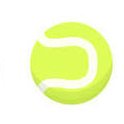
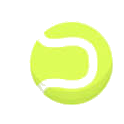
Cambio pelotas blancas por bowling, billar y badminton con color

diff --git a/backend/src/main/resources/static/assets/index-DQglgOp7.js b/backend/src/main/resources/static/assets/index-DQglgOp7.js
@@ -64,4 +64,4 @@ Error generating stack: `+i.message+`
  * LICENSE.md file in the root directory of this source tree.
  *
  * @license MIT
- */function oo(){return oo=Object.assign?Object.assign.bind():function(e){for(var t=1;t<arguments.length;t++){var n=arguments[t];for(var r in n)({}).hasOwnProperty.call(n,r)&&(e[r]=n[r])}return e},oo.apply(null,arguments)}function Nh(e,t){if(e==null)return{};var n={};for(var r in e)if({}.hasOwnProperty.call(e,r)){if(t.indexOf(r)!==-1)continue;n[r]=e[r]}return n}function Ph(e){return!!(e.metaKey||e.altKey||e.ctrlKey||e.shiftKey)}function _h(e,t){return e.button===0&&(!t||t==="_self")&&!Ph(e)}const jh=["onClick","relative","reloadDocument","replace","state","target","to","preventScrollReset","viewTransition"],zh="6";try{window.__reactRouterVersion=zh}catch{}const Rh="startTransition",Ss=kf[Rh];function Th(e){let{basename:t,children:n,future:r,window:l}=e,i=S.useRef();i.current==null&&(i.current=Ip({window:l,v5Compat:!0}));let o=i.current,[u,s]=S.useState({action:o.action,location:o.location}),{v7_startTransition:a}=r||{},h=S.useCallback(p=>{a&&Ss?Ss(()=>s(p)):s(p)},[s,a]);return S.useLayoutEffect(()=>o.listen(h),[o,h]),S.useEffect(()=>Sh(r),[r]),S.createElement(Eh,{basename:t,children:n,location:u.location,navigationType:u.action,navigator:o,future:r})}const Lh=typeof window<"u"&&typeof window.document<"u"&&typeof window.document.createElement<"u",Oh=/^(?:[a-z][a-z0-9+.-]*:|\/\/)/i,qc=S.forwardRef(function(t,n){let{onClick:r,relative:l,reloadDocument:i,replace:o,state:u,target:s,to:a,preventScrollReset:h,viewTransition:p}=t,m=Nh(t,jh),{basename:y}=S.useContext(Et),w,x=!1;if(typeof a=="string"&&Oh.test(a)&&(w=a,Lh))try{let f=new URL(window.location.href),g=a.startsWith("//")?new URL(f.protocol+a):new URL(a),E=nu(g.pathname,y);g.origin===f.origin&&E!=null?a=E+g.search+g.hash:x=!0}catch{}let C=oh(a,{relative:l}),d=Ih(a,{replace:o,state:u,target:s,preventScrollReset:h,relative:l,viewTransition:p});function c(f){r&&r(f),f.defaultPrevented||d(f)}return S.createElement("a",oo({},m,{href:w||C,onClick:x||i?r:c,ref:n,target:s}))});var ks;(function(e){e.UseScrollRestoration="useScrollRestoration",e.UseSubmit="useSubmit",e.UseSubmitFetcher="useSubmitFetcher",e.UseFetcher="useFetcher",e.useViewTransitionState="useViewTransitionState"})(ks||(ks={}));var Es;(function(e){e.UseFetcher="useFetcher",e.UseFetchers="useFetchers",e.UseScrollRestoration="useScrollRestoration"})(Es||(Es={}));function Ih(e,t){let{target:n,replace:r,state:l,preventScrollReset:i,relative:o,viewTransition:u}=t===void 0?{}:t,s=At(),a=pr(),h=Jc(e,{relative:o});return S.useCallback(p=>{if(_h(p,n)){p.preventDefault();let m=r!==void 0?r:ml(a)===ml(h);s(e,{replace:m,state:l,preventScrollReset:i,relative:o,viewTransition:u})}},[a,s,h,r,l,n,e,i,o,u])}const Mh="/api";function Dh(){return localStorage.getItem("token")}function bc(e){localStorage.setItem("token",e)}function ef(){localStorage.removeItem("token")}function xn(){const e=localStorage.getItem("usuario");return e?JSON.parse(e):null}function tf(e){localStorage.setItem("usuario",JSON.stringify(e))}async function We(e,t={}){const n=Dh(),r={"Content-Type":"application/json"};n&&(r.Authorization=`Bearer ${n}`);const l=await fetch(Mh+e,{...t,headers:r});if(l.status===401){ef(),window.location.href="/login";return}return l.json()}function Fh(e,t){return We("/auth/login",{method:"POST",body:JSON.stringify({email:e,password:t})})}function Uh(e,t,n,r){return We("/auth/register",{method:"POST",body:JSON.stringify({nombre:e,email:t,password:n,rol:r})})}function Cs(){return We("/equipos")}function $h(e){return We("/equipos",{method:"POST",body:JSON.stringify({nombre:e})})}function Ns(e){return We("/equipos/"+e)}function Ah(e,t){return We("/equipos/"+e+"/jugadores",{method:"POST",body:JSON.stringify({email:t})})}function Ps(e){return We("/equipos/"+e+"/convocatorias")}function Bh(e,t){return We("/equipos/"+e+"/convocatorias",{method:"POST",body:JSON.stringify(t)})}function _s(e){return We("/convocatorias/"+e+"/asistencia")}function Wh(e,t){return We("/convocatorias/"+e+"/asistencia",{method:"PUT",body:JSON.stringify({estado:t})})}function Vh(){const e=At(),t=xn();function n(){ef(),localStorage.removeItem("usuario"),e("/login")}return v.jsxs("nav",{className:"navbar",children:[v.jsx("h1",{style:{cursor:"pointer"},onClick:()=>e("/"),children:"ClubPlan"}),v.jsxs("div",{className:"navbar-right",children:[v.jsxs("span",{className:"navbar-user",children:[v.jsx("strong",{children:t==null?void 0:t.nombre})," · ",(t==null?void 0:t.rol)==="ENTRENADOR"?"Entrenador":"Jugador"]}),v.jsx("button",{onClick:n,children:"Cerrar sesion"})]})]})}const Hh=["/balls/soccer.png","/balls/basketball.png","/balls/baseball.png","/balls/tennis.png","/balls/volleyball.png","/balls/football.png","/balls/hockey.png"],ai=[{size:120,speed:2.5,rot:1.2},{size:140,speed:3,rot:-1},{size:110,speed:2.8,rot:1.4},{size:100,speed:3.5,rot:-1.6},{size:130,speed:2.2,rot:.9},{size:105,speed:3.2,rot:-1.3},{size:95,speed:3.8,rot:1.5}];function Qh(){const[e,t]=S.useState(""),[n,r]=S.useState(""),[l,i]=S.useState(""),o=At(),u=S.useRef(null),s=S.useRef(null),a=S.useRef([]),h=S.useRef([]);function p(y,w){const x=y.getBoundingClientRect(),C=w.getBoundingClientRect();return{left:C.left-x.left-30,top:C.top-x.top-30,right:C.right-x.left+30,bottom:C.bottom-x.top+30}}S.useLayoutEffect(()=>{const y=u.current,w=s.current;if(!y||!w)return;const x=y.clientWidth,C=y.clientHeight,d=p(y,w);h.current=ai.map((g,E)=>{let _,j,z=0;do _=Math.random()*(x-g.size),j=Math.random()*(C-g.size),z++;while(z<100&&_+g.size>d.left&&_<d.right&&j+g.size>d.top&&j<d.bottom);const N=Math.PI*2/ai.length*E+Math.random()*.5;return{x:_,y:j,dx:Math.cos(N)*g.speed,dy:Math.sin(N)*g.speed,r:Math.random()*360,dr:g.rot,size:g.size}}),h.current.forEach((g,E)=>{a.current[E]&&(a.current[E].style.transform="translate("+g.x+"px,"+g.y+"px) rotate("+g.r+"deg)")});let c;function f(){const g=u.current,E=s.current;if(!g||!E)return;const _=g.clientWidth,j=g.clientHeight,z=p(g,E);h.current.forEach((N,L)=>{let Q=N.x+N.dx,se=N.y+N.dy;if(N.r+=N.dr,Q<=0&&(Q=0,N.dx=Math.abs(N.dx)),Q>=_-N.size&&(Q=_-N.size,N.dx=-Math.abs(N.dx)),se<=0&&(se=0,N.dy=Math.abs(N.dy)),se>=j-N.size&&(se=j-N.size,N.dy=-Math.abs(N.dy)),Q+N.size>z.left&&Q<z.right&&se+N.size>z.top&&se<z.bottom){const et=N.x+N.size>z.left&&N.x<z.right,Sn=N.y+N.size>z.top&&N.y<z.bottom;et||(N.dx=-N.dx,Q=N.x+N.dx),Sn||(N.dy=-N.dy,se=N.y+N.dy),et&&Sn&&(N.dx=-N.dx,N.dy=-N.dy,Q=N.x+N.dx,se=N.y+N.dy)}N.x=Q,N.y=se,a.current[L]&&(a.current[L].style.transform="translate("+N.x+"px,"+N.y+"px) rotate("+N.r+"deg)")}),c=requestAnimationFrame(f)}return c=requestAnimationFrame(f),()=>cancelAnimationFrame(c)},[]);async function m(y){y.preventDefault();const w=await Fh(e,n);w.error?i(w.error):(bc(w.token),tf(w.usuario),o("/"))}return v.jsxs("div",{className:"login-bg",ref:u,children:[ai.map((y,w)=>v.jsx("div",{ref:x=>a.current[w]=x,className:"bouncing-icon",children:v.jsx("img",{src:Hh[w],alt:"",width:y.size,height:y.size,draggable:"false"})},w)),v.jsxs("div",{className:"login-card",ref:s,children:[v.jsx("div",{className:"login-logo",children:"ClubPlan"}),v.jsx("h2",{children:"Iniciar sesion"}),v.jsx("p",{className:"login-subtitle",children:"Gestiona tus equipos y convocatorias"}),l&&v.jsx("p",{className:"error",children:l}),v.jsxs("form",{onSubmit:m,children:[v.jsxs("div",{className:"form-group",children:[v.jsx("label",{children:"Email"}),v.jsx("input",{type:"email",value:e,onChange:y=>t(y.target.value),placeholder:"tu@email.com",required:!0})]}),v.jsxs("div",{className:"form-group",children:[v.jsx("label",{children:"Contrasena"}),v.jsx("input",{type:"password",value:n,onChange:y=>r(y.target.value),placeholder:"Tu contrasena",required:!0})]}),v.jsx("button",{type:"submit",className:"btn btn-primary",style:{width:"100%",padding:"14px"},children:"Entrar"})]}),v.jsxs("p",{style:{marginTop:"20px",textAlign:"center",fontSize:"0.9rem",color:"var(--texto-suave)"},children:["No tienes cuenta? ",v.jsx(qc,{to:"/register",style:{color:"var(--primary)",fontWeight:"600",textDecoration:"none"},children:"Registrate"})]})]})]})}function Kh(){const[e,t]=S.useState(""),[n,r]=S.useState(""),[l,i]=S.useState(""),[o,u]=S.useState("JUGADOR"),[s,a]=S.useState(""),h=At();async function p(m){m.preventDefault();const y=await Uh(e,n,l,o);y.error?a(y.error):(bc(y.token),tf(y.usuario),h("/"))}return v.jsx("div",{className:"login-bg",children:v.jsxs("div",{className:"login-card",children:[v.jsx("div",{className:"login-logo",children:"ClubPlan"}),v.jsx("h2",{children:"Crear cuenta"}),v.jsx("p",{className:"login-subtitle",children:"Unete a tu equipo"}),s&&v.jsx("p",{className:"error",children:s}),v.jsxs("form",{onSubmit:p,children:[v.jsxs("div",{className:"form-group",children:[v.jsx("label",{children:"Nombre"}),v.jsx("input",{value:e,onChange:m=>t(m.target.value),placeholder:"Tu nombre",required:!0})]}),v.jsxs("div",{className:"form-group",children:[v.jsx("label",{children:"Email"}),v.jsx("input",{type:"email",value:n,onChange:m=>r(m.target.value),placeholder:"tu@email.com",required:!0})]}),v.jsxs("div",{className:"form-group",children:[v.jsx("label",{children:"Contrasena"}),v.jsx("input",{type:"password",value:l,onChange:m=>i(m.target.value),placeholder:"Tu contrasena",required:!0})]}),v.jsxs("div",{className:"form-group",children:[v.jsx("label",{children:"Rol"}),v.jsxs("select",{value:o,onChange:m=>u(m.target.value),children:[v.jsx("option",{value:"ENTRENADOR",children:"Entrenador"}),v.jsx("option",{value:"JUGADOR",children:"Jugador"})]})]}),v.jsx("button",{type:"submit",className:"btn btn-primary",style:{width:"100%",padding:"14px"},children:"Registrarme"})]}),v.jsxs("p",{style:{marginTop:"20px",textAlign:"center",fontSize:"0.9rem",color:"var(--texto-suave)"},children:["Ya tienes cuenta? ",v.jsx(qc,{to:"/login",style:{color:"var(--primary)",fontWeight:"600",textDecoration:"none"},children:"Inicia sesion"})]})]})})}function Yh(){const[e,t]=S.useState([]),[n,r]=S.useState(""),[l,i]=S.useState(!1),o=At(),u=xn();S.useEffect(()=>{Cs().then(t)},[]);async function s(a){a.preventDefault(),await $h(n),r(""),i(!1),Cs().then(t)}return v.jsxs("div",{className:"container",children:[v.jsxs("div",{className:"flex-between",children:[v.jsxs("div",{className:"page-header",children:[v.jsx("h2",{children:"Mis equipos"}),v.jsxs("p",{children:[e.length," equipo",e.length!==1?"s":""]})]}),(u==null?void 0:u.rol)==="ENTRENADOR"&&v.jsx("button",{className:"btn btn-primary",onClick:()=>i(!l),children:l?"Cancelar":"+ Nuevo equipo"})]}),l&&v.jsxs("form",{onSubmit:s,className:"card",style:{display:"flex",gap:"12px",alignItems:"flex-end"},children:[v.jsxs("div",{style:{flex:1},children:[v.jsx("label",{style:{display:"block",marginBottom:"6px",fontWeight:"600",fontSize:"0.85rem"},children:"Nombre del equipo"}),v.jsx("input",{placeholder:"Ej: Juvenil A",value:n,onChange:a=>r(a.target.value),required:!0,style:{width:"100%",padding:"12px 14px",border:"2px solid var(--borde)",borderRadius:"10px",fontSize:"0.95rem",fontFamily:"inherit"}})]}),v.jsx("button",{type:"submit",className:"btn btn-primary",style:{height:"46px"},children:"Crear"})]}),v.jsx("div",{className:"grid",children:e.map(a=>{var h;return v.jsxs("div",{className:"card card-clickable",onClick:()=>o("/equipo/"+a.id),children:[v.jsx("div",{className:"card-icon card-icon-purple",children:"⚽"}),v.jsx("h3",{children:a.nombre}),v.jsxs("p",{children:["Entrenador: ",((h=a.entrenador)==null?void 0:h.nombre)||"Tu"]})]},a.id)})}),e.length===0&&v.jsxs("div",{className:"empty-state",children:[v.jsx("div",{className:"empty-icon",children:"⚽"}),v.jsx("p",{children:"No tienes equipos todavia"})]})]})}function Jh(){var C,d,c;const{id:e}=Yc(),t=At(),n=xn(),[r,l]=S.useState(null),[i,o]=S.useState([]),[u,s]=S.useState(""),[a,h]=S.useState({titulo:"",descripcion:"",fecha:"",lugar:""}),[p,m]=S.useState(!1);S.useEffect(()=>{Ns(e).then(l),Ps(e).then(o)},[e]);const y=((C=r==null?void 0:r.entrenador)==null?void 0:C.id)===(n==null?void 0:n.id);async function w(f){f.preventDefault(),await Ah(e,u),s(""),Ns(e).then(l)}async function x(f){f.preventDefault(),await Bh(e,a),h({titulo:"",descripcion:"",fecha:"",lugar:""}),m(!1),Ps(e).then(o)}return r?v.jsxs("div",{className:"container",children:[v.jsxs("div",{className:"page-header",children:[v.jsx("h2",{children:r.nombre}),v.jsxs("p",{children:["Entrenador: ",r.entrenador.nombre," — ",((d=r.jugadores)==null?void 0:d.length)||0," jugadores"]})]}),y&&v.jsxs("div",{className:"card",children:[v.jsx("h3",{style:{marginBottom:"16px"},children:"Jugadores del equipo"}),(c=r.jugadores)==null?void 0:c.map(f=>v.jsx("div",{className:"jugador-row",children:v.jsxs("div",{className:"jugador-info",children:[v.jsx("div",{className:"jugador-avatar",children:f.nombre.charAt(0).toUpperCase()}),v.jsxs("div",{children:[v.jsx("div",{style:{fontWeight:"600",fontSize:"0.95rem"},children:f.nombre}),v.jsx("div",{style:{color:"var(--texto-suave)",fontSize:"0.8rem"},children:f.email})]})]})},f.id)),(!r.jugadores||r.jugadores.length===0)&&v.jsx("p",{style:{color:"var(--texto-suave)",fontSize:"0.9rem",marginBottom:"12px"},children:"No hay jugadores todavia"}),v.jsxs("form",{onSubmit:w,style:{display:"flex",gap:"8px",marginTop:"16px"},children:[v.jsx("input",{type:"email",placeholder:"Email del jugador",value:u,onChange:f=>s(f.target.value),required:!0,style:{flex:1,padding:"10px 14px",border:"2px solid var(--borde)",borderRadius:"10px",fontSize:"0.9rem",fontFamily:"inherit"}}),v.jsx("button",{type:"submit",className:"btn btn-outline",children:"Anadir"})]})]}),v.jsxs("div",{className:"flex-between",style:{marginTop:"28px"},children:[v.jsx("h3",{style:{fontSize:"1.2rem",fontWeight:"700"},children:"Convocatorias"}),y&&v.jsx("button",{className:"btn btn-primary",onClick:()=>m(!p),children:p?"Cancelar":"+ Nueva convocatoria"})]}),p&&v.jsxs("form",{onSubmit:x,className:"card",children:[v.jsxs("div",{className:"form-group",children:[v.jsx("label",{children:"Titulo"}),v.jsx("input",{value:a.titulo,onChange:f=>h({...a,titulo:f.target.value}),placeholder:"Ej: Partido vs Alzira",required:!0})]}),v.jsxs("div",{className:"form-group",children:[v.jsx("label",{children:"Descripcion"}),v.jsx("textarea",{value:a.descripcion,onChange:f=>h({...a,descripcion:f.target.value}),rows:"3",placeholder:"Detalles de la convocatoria"})]}),v.jsxs("div",{style:{display:"grid",gridTemplateColumns:"1fr 1fr",gap:"12px"},children:[v.jsxs("div",{className:"form-group",children:[v.jsx("label",{children:"Fecha y hora"}),v.jsx("input",{type:"datetime-local",value:a.fecha,onChange:f=>h({...a,fecha:f.target.value}),required:!0})]}),v.jsxs("div",{className:"form-group",children:[v.jsx("label",{children:"Lugar"}),v.jsx("input",{value:a.lugar,onChange:f=>h({...a,lugar:f.target.value}),placeholder:"Ej: Campo Municipal"})]})]}),v.jsx("button",{type:"submit",className:"btn btn-primary",children:"Crear convocatoria"})]}),i.map(f=>v.jsx("div",{className:"card card-clickable",onClick:()=>t("/convocatoria/"+f.id),children:v.jsxs("div",{style:{display:"flex",justifyContent:"space-between",alignItems:"center"},children:[v.jsxs("div",{children:[v.jsx("h3",{children:f.titulo}),v.jsxs("p",{children:[f.lugar," — ",new Date(f.fecha).toLocaleString("es-ES")]})]}),v.jsx("span",{style:{color:"var(--primary)",fontSize:"1.2rem"},children:"›"})]})},f.id)),i.length===0&&v.jsxs("div",{className:"empty-state",children:[v.jsx("div",{className:"empty-icon",children:"📅"}),v.jsx("p",{children:"No hay convocatorias todavia"})]})]}):v.jsx("div",{className:"container",children:v.jsx("p",{children:"Cargando..."})})}function Xh(){const{id:e}=Yc(),t=xn(),[n,r]=S.useState([]);S.useEffect(()=>{_s(e).then(r)},[e]);async function l(a){await Wh(e,a),_s(e).then(r)}const i=n.find(a=>a.jugador.id===(t==null?void 0:t.id)),o=n.filter(a=>a.estado==="CONFIRMADO").length,u=n.filter(a=>a.estado==="RECHAZADO").length,s=n.filter(a=>a.estado==="PENDIENTE").length;return v.jsxs("div",{className:"container",children:[v.jsxs("div",{className:"page-header",children:[v.jsx("h2",{children:"Asistencia"}),v.jsxs("p",{children:[n.length," jugadores convocados"]})]}),v.jsxs("div",{className:"stat-cards",children:[v.jsxs("div",{className:"stat-card",children:[v.jsx("div",{className:"stat-number",style:{color:"var(--accent)"},children:o}),v.jsx("p",{children:"Confirmados"})]}),v.jsxs("div",{className:"stat-card",children:[v.jsx("div",{className:"stat-number",style:{color:"var(--rojo)"},children:u}),v.jsx("p",{children:"Rechazados"})]}),v.jsxs("div",{className:"stat-card",children:[v.jsx("div",{className:"stat-number",style:{color:"var(--amarillo)"},children:s}),v.jsx("p",{children:"Pendientes"})]})]}),i&&v.jsxs("div",{className:"card",children:[v.jsx("h3",{style:{marginBottom:"12px"},children:"Tu respuesta"}),v.jsxs("p",{style:{marginBottom:"16px"},children:["Estado actual: ",v.jsx("span",{className:"badge badge-"+i.estado.toLowerCase(),children:i.estado})]}),v.jsxs("div",{style:{display:"flex",gap:"10px"},children:[v.jsx("button",{className:"btn btn-accent",onClick:()=>l("CONFIRMADO"),children:"Confirmar asistencia"}),v.jsx("button",{className:"btn btn-danger",onClick:()=>l("RECHAZADO"),children:"No puedo ir"})]})]}),v.jsx("h3",{style:{marginTop:"28px",marginBottom:"16px",fontSize:"1.1rem",fontWeight:"700"},children:"Lista de jugadores"}),n.map(a=>v.jsx("div",{className:"card",style:{padding:"16px 24px"},children:v.jsxs("div",{className:"jugador-row",style:{borderBottom:"none",padding:0},children:[v.jsxs("div",{className:"jugador-info",children:[v.jsx("div",{className:"jugador-avatar",children:a.jugador.nombre.charAt(0).toUpperCase()}),v.jsx("span",{style:{fontWeight:"600"},children:a.jugador.nombre})]}),v.jsx("span",{className:"badge badge-"+a.estado.toLowerCase(),children:a.estado})]})},a.id))]})}function ci({children:e}){return xn()?e:v.jsx(kh,{to:"/login"})}function Gh(){return v.jsxs(v.Fragment,{children:[xn()&&v.jsx(Vh,{}),v.jsxs(Ch,{children:[v.jsx(Wt,{path:"/login",element:v.jsx(Qh,{})}),v.jsx(Wt,{path:"/register",element:v.jsx(Kh,{})}),v.jsx(Wt,{path:"/",element:v.jsx(ci,{children:v.jsx(Yh,{})})}),v.jsx(Wt,{path:"/equipo/:id",element:v.jsx(ci,{children:v.jsx(Jh,{})})}),v.jsx(Wt,{path:"/convocatoria/:id",element:v.jsx(ci,{children:v.jsx(Xh,{})})})]})]})}fi.createRoot(document.getElementById("root")).render(v.jsx(Th,{children:v.jsx(Gh,{})}));
+ */function oo(){return oo=Object.assign?Object.assign.bind():function(e){for(var t=1;t<arguments.length;t++){var n=arguments[t];for(var r in n)({}).hasOwnProperty.call(n,r)&&(e[r]=n[r])}return e},oo.apply(null,arguments)}function Nh(e,t){if(e==null)return{};var n={};for(var r in e)if({}.hasOwnProperty.call(e,r)){if(t.indexOf(r)!==-1)continue;n[r]=e[r]}return n}function Ph(e){return!!(e.metaKey||e.altKey||e.ctrlKey||e.shiftKey)}function _h(e,t){return e.button===0&&(!t||t==="_self")&&!Ph(e)}const jh=["onClick","relative","reloadDocument","replace","state","target","to","preventScrollReset","viewTransition"],zh="6";try{window.__reactRouterVersion=zh}catch{}const Rh="startTransition",Ss=kf[Rh];function Th(e){let{basename:t,children:n,future:r,window:l}=e,i=S.useRef();i.current==null&&(i.current=Ip({window:l,v5Compat:!0}));let o=i.current,[u,s]=S.useState({action:o.action,location:o.location}),{v7_startTransition:a}=r||{},h=S.useCallback(p=>{a&&Ss?Ss(()=>s(p)):s(p)},[s,a]);return S.useLayoutEffect(()=>o.listen(h),[o,h]),S.useEffect(()=>Sh(r),[r]),S.createElement(Eh,{basename:t,children:n,location:u.location,navigationType:u.action,navigator:o,future:r})}const Lh=typeof window<"u"&&typeof window.document<"u"&&typeof window.document.createElement<"u",Oh=/^(?:[a-z][a-z0-9+.-]*:|\/\/)/i,qc=S.forwardRef(function(t,n){let{onClick:r,relative:l,reloadDocument:i,replace:o,state:u,target:s,to:a,preventScrollReset:h,viewTransition:p}=t,m=Nh(t,jh),{basename:y}=S.useContext(Et),w,x=!1;if(typeof a=="string"&&Oh.test(a)&&(w=a,Lh))try{let f=new URL(window.location.href),g=a.startsWith("//")?new URL(f.protocol+a):new URL(a),E=nu(g.pathname,y);g.origin===f.origin&&E!=null?a=E+g.search+g.hash:x=!0}catch{}let C=oh(a,{relative:l}),d=Ih(a,{replace:o,state:u,target:s,preventScrollReset:h,relative:l,viewTransition:p});function c(f){r&&r(f),f.defaultPrevented||d(f)}return S.createElement("a",oo({},m,{href:w||C,onClick:x||i?r:c,ref:n,target:s}))});var ks;(function(e){e.UseScrollRestoration="useScrollRestoration",e.UseSubmit="useSubmit",e.UseSubmitFetcher="useSubmitFetcher",e.UseFetcher="useFetcher",e.useViewTransitionState="useViewTransitionState"})(ks||(ks={}));var Es;(function(e){e.UseFetcher="useFetcher",e.UseFetchers="useFetchers",e.UseScrollRestoration="useScrollRestoration"})(Es||(Es={}));function Ih(e,t){let{target:n,replace:r,state:l,preventScrollReset:i,relative:o,viewTransition:u}=t===void 0?{}:t,s=At(),a=pr(),h=Jc(e,{relative:o});return S.useCallback(p=>{if(_h(p,n)){p.preventDefault();let m=r!==void 0?r:ml(a)===ml(h);s(e,{replace:m,state:l,preventScrollReset:i,relative:o,viewTransition:u})}},[a,s,h,r,l,n,e,i,o,u])}const Mh="/api";function Dh(){return localStorage.getItem("token")}function bc(e){localStorage.setItem("token",e)}function ef(){localStorage.removeItem("token")}function xn(){const e=localStorage.getItem("usuario");return e?JSON.parse(e):null}function tf(e){localStorage.setItem("usuario",JSON.stringify(e))}async function We(e,t={}){const n=Dh(),r={"Content-Type":"application/json"};n&&(r.Authorization=`Bearer ${n}`);const l=await fetch(Mh+e,{...t,headers:r});if(l.status===401){ef(),window.location.href="/login";return}return l.json()}function Fh(e,t){return We("/auth/login",{method:"POST",body:JSON.stringify({email:e,password:t})})}function Uh(e,t,n,r){return We("/auth/register",{method:"POST",body:JSON.stringify({nombre:e,email:t,password:n,rol:r})})}function Cs(){return We("/equipos")}function $h(e){return We("/equipos",{method:"POST",body:JSON.stringify({nombre:e})})}function Ns(e){return We("/equipos/"+e)}function Ah(e,t){return We("/equipos/"+e+"/jugadores",{method:"POST",body:JSON.stringify({email:t})})}function Ps(e){return We("/equipos/"+e+"/convocatorias")}function Bh(e,t){return We("/equipos/"+e+"/convocatorias",{method:"POST",body:JSON.stringify(t)})}function _s(e){return We("/convocatorias/"+e+"/asistencia")}function Wh(e,t){return We("/convocatorias/"+e+"/asistencia",{method:"PUT",body:JSON.stringify({estado:t})})}function Vh(){const e=At(),t=xn();function n(){ef(),localStorage.removeItem("usuario"),e("/login")}return v.jsxs("nav",{className:"navbar",children:[v.jsx("h1",{style:{cursor:"pointer"},onClick:()=>e("/"),children:"ClubPlan"}),v.jsxs("div",{className:"navbar-right",children:[v.jsxs("span",{className:"navbar-user",children:[v.jsx("strong",{children:t==null?void 0:t.nombre})," · ",(t==null?void 0:t.rol)==="ENTRENADOR"?"Entrenador":"Jugador"]}),v.jsx("button",{onClick:n,children:"Cerrar sesion"})]})]})}const Hh=["/balls/bowling.png","/balls/basketball.png","/balls/billiard.png","/balls/tennis.png","/balls/badminton.png","/balls/football.png","/balls/hockey.png"],ai=[{size:120,speed:2.5,rot:1.2},{size:140,speed:3,rot:-1},{size:110,speed:2.8,rot:1.4},{size:100,speed:3.5,rot:-1.6},{size:130,speed:2.2,rot:.9},{size:105,speed:3.2,rot:-1.3},{size:95,speed:3.8,rot:1.5}];function Qh(){const[e,t]=S.useState(""),[n,r]=S.useState(""),[l,i]=S.useState(""),o=At(),u=S.useRef(null),s=S.useRef(null),a=S.useRef([]),h=S.useRef([]);function p(y,w){const x=y.getBoundingClientRect(),C=w.getBoundingClientRect();return{left:C.left-x.left-30,top:C.top-x.top-30,right:C.right-x.left+30,bottom:C.bottom-x.top+30}}S.useLayoutEffect(()=>{const y=u.current,w=s.current;if(!y||!w)return;const x=y.clientWidth,C=y.clientHeight,d=p(y,w);h.current=ai.map((g,E)=>{let _,j,z=0;do _=Math.random()*(x-g.size),j=Math.random()*(C-g.size),z++;while(z<100&&_+g.size>d.left&&_<d.right&&j+g.size>d.top&&j<d.bottom);const N=Math.PI*2/ai.length*E+Math.random()*.5;return{x:_,y:j,dx:Math.cos(N)*g.speed,dy:Math.sin(N)*g.speed,r:Math.random()*360,dr:g.rot,size:g.size}}),h.current.forEach((g,E)=>{a.current[E]&&(a.current[E].style.transform="translate("+g.x+"px,"+g.y+"px) rotate("+g.r+"deg)")});let c;function f(){const g=u.current,E=s.current;if(!g||!E)return;const _=g.clientWidth,j=g.clientHeight,z=p(g,E);h.current.forEach((N,L)=>{let Q=N.x+N.dx,se=N.y+N.dy;if(N.r+=N.dr,Q<=0&&(Q=0,N.dx=Math.abs(N.dx)),Q>=_-N.size&&(Q=_-N.size,N.dx=-Math.abs(N.dx)),se<=0&&(se=0,N.dy=Math.abs(N.dy)),se>=j-N.size&&(se=j-N.size,N.dy=-Math.abs(N.dy)),Q+N.size>z.left&&Q<z.right&&se+N.size>z.top&&se<z.bottom){const et=N.x+N.size>z.left&&N.x<z.right,Sn=N.y+N.size>z.top&&N.y<z.bottom;et||(N.dx=-N.dx,Q=N.x+N.dx),Sn||(N.dy=-N.dy,se=N.y+N.dy),et&&Sn&&(N.dx=-N.dx,N.dy=-N.dy,Q=N.x+N.dx,se=N.y+N.dy)}N.x=Q,N.y=se,a.current[L]&&(a.current[L].style.transform="translate("+N.x+"px,"+N.y+"px) rotate("+N.r+"deg)")}),c=requestAnimationFrame(f)}return c=requestAnimationFrame(f),()=>cancelAnimationFrame(c)},[]);async function m(y){y.preventDefault();const w=await Fh(e,n);w.error?i(w.error):(bc(w.token),tf(w.usuario),o("/"))}return v.jsxs("div",{className:"login-bg",ref:u,children:[ai.map((y,w)=>v.jsx("div",{ref:x=>a.current[w]=x,className:"bouncing-icon",children:v.jsx("img",{src:Hh[w],alt:"",width:y.size,height:y.size,draggable:"false"})},w)),v.jsxs("div",{className:"login-card",ref:s,children:[v.jsx("div",{className:"login-logo",children:"ClubPlan"}),v.jsx("h2",{children:"Iniciar sesion"}),v.jsx("p",{className:"login-subtitle",children:"Gestiona tus equipos y convocatorias"}),l&&v.jsx("p",{className:"error",children:l}),v.jsxs("form",{onSubmit:m,children:[v.jsxs("div",{className:"form-group",children:[v.jsx("label",{children:"Email"}),v.jsx("input",{type:"email",value:e,onChange:y=>t(y.target.value),placeholder:"tu@email.com",required:!0})]}),v.jsxs("div",{className:"form-group",children:[v.jsx("label",{children:"Contrasena"}),v.jsx("input",{type:"password",value:n,onChange:y=>r(y.target.value),placeholder:"Tu contrasena",required:!0})]}),v.jsx("button",{type:"submit",className:"btn btn-primary",style:{width:"100%",padding:"14px"},children:"Entrar"})]}),v.jsxs("p",{style:{marginTop:"20px",textAlign:"center",fontSize:"0.9rem",color:"var(--texto-suave)"},children:["No tienes cuenta? ",v.jsx(qc,{to:"/register",style:{color:"var(--primary)",fontWeight:"600",textDecoration:"none"},children:"Registrate"})]})]})]})}function Kh(){const[e,t]=S.useState(""),[n,r]=S.useState(""),[l,i]=S.useState(""),[o,u]=S.useState("JUGADOR"),[s,a]=S.useState(""),h=At();async function p(m){m.preventDefault();const y=await Uh(e,n,l,o);y.error?a(y.error):(bc(y.token),tf(y.usuario),h("/"))}return v.jsx("div",{className:"login-bg",children:v.jsxs("div",{className:"login-card",children:[v.jsx("div",{className:"login-logo",children:"ClubPlan"}),v.jsx("h2",{children:"Crear cuenta"}),v.jsx("p",{className:"login-subtitle",children:"Unete a tu equipo"}),s&&v.jsx("p",{className:"error",children:s}),v.jsxs("form",{onSubmit:p,children:[v.jsxs("div",{className:"form-group",children:[v.jsx("label",{children:"Nombre"}),v.jsx("input",{value:e,onChange:m=>t(m.target.value),placeholder:"Tu nombre",required:!0})]}),v.jsxs("div",{className:"form-group",children:[v.jsx("label",{children:"Email"}),v.jsx("input",{type:"email",value:n,onChange:m=>r(m.target.value),placeholder:"tu@email.com",required:!0})]}),v.jsxs("div",{className:"form-group",children:[v.jsx("label",{children:"Contrasena"}),v.jsx("input",{type:"password",value:l,onChange:m=>i(m.target.value),placeholder:"Tu contrasena",required:!0})]}),v.jsxs("div",{className:"form-group",children:[v.jsx("label",{children:"Rol"}),v.jsxs("select",{value:o,onChange:m=>u(m.target.value),children:[v.jsx("option",{value:"ENTRENADOR",children:"Entrenador"}),v.jsx("option",{value:"JUGADOR",children:"Jugador"})]})]}),v.jsx("button",{type:"submit",className:"btn btn-primary",style:{width:"100%",padding:"14px"},children:"Registrarme"})]}),v.jsxs("p",{style:{marginTop:"20px",textAlign:"center",fontSize:"0.9rem",color:"var(--texto-suave)"},children:["Ya tienes cuenta? ",v.jsx(qc,{to:"/login",style:{color:"var(--primary)",fontWeight:"600",textDecoration:"none"},children:"Inicia sesion"})]})]})})}function Yh(){const[e,t]=S.useState([]),[n,r]=S.useState(""),[l,i]=S.useState(!1),o=At(),u=xn();S.useEffect(()=>{Cs().then(t)},[]);async function s(a){a.preventDefault(),await $h(n),r(""),i(!1),Cs().then(t)}return v.jsxs("div",{className:"container",children:[v.jsxs("div",{className:"flex-between",children:[v.jsxs("div",{className:"page-header",children:[v.jsx("h2",{children:"Mis equipos"}),v.jsxs("p",{children:[e.length," equipo",e.length!==1?"s":""]})]}),(u==null?void 0:u.rol)==="ENTRENADOR"&&v.jsx("button",{className:"btn btn-primary",onClick:()=>i(!l),children:l?"Cancelar":"+ Nuevo equipo"})]}),l&&v.jsxs("form",{onSubmit:s,className:"card",style:{display:"flex",gap:"12px",alignItems:"flex-end"},children:[v.jsxs("div",{style:{flex:1},children:[v.jsx("label",{style:{display:"block",marginBottom:"6px",fontWeight:"600",fontSize:"0.85rem"},children:"Nombre del equipo"}),v.jsx("input",{placeholder:"Ej: Juvenil A",value:n,onChange:a=>r(a.target.value),required:!0,style:{width:"100%",padding:"12px 14px",border:"2px solid var(--borde)",borderRadius:"10px",fontSize:"0.95rem",fontFamily:"inherit"}})]}),v.jsx("button",{type:"submit",className:"btn btn-primary",style:{height:"46px"},children:"Crear"})]}),v.jsx("div",{className:"grid",children:e.map(a=>{var h;return v.jsxs("div",{className:"card card-clickable",onClick:()=>o("/equipo/"+a.id),children:[v.jsx("div",{className:"card-icon card-icon-purple",children:"⚽"}),v.jsx("h3",{children:a.nombre}),v.jsxs("p",{children:["Entrenador: ",((h=a.entrenador)==null?void 0:h.nombre)||"Tu"]})]},a.id)})}),e.length===0&&v.jsxs("div",{className:"empty-state",children:[v.jsx("div",{className:"empty-icon",children:"⚽"}),v.jsx("p",{children:"No tienes equipos todavia"})]})]})}function Jh(){var C,d,c;const{id:e}=Yc(),t=At(),n=xn(),[r,l]=S.useState(null),[i,o]=S.useState([]),[u,s]=S.useState(""),[a,h]=S.useState({titulo:"",descripcion:"",fecha:"",lugar:""}),[p,m]=S.useState(!1);S.useEffect(()=>{Ns(e).then(l),Ps(e).then(o)},[e]);const y=((C=r==null?void 0:r.entrenador)==null?void 0:C.id)===(n==null?void 0:n.id);async function w(f){f.preventDefault(),await Ah(e,u),s(""),Ns(e).then(l)}async function x(f){f.preventDefault(),await Bh(e,a),h({titulo:"",descripcion:"",fecha:"",lugar:""}),m(!1),Ps(e).then(o)}return r?v.jsxs("div",{className:"container",children:[v.jsxs("div",{className:"page-header",children:[v.jsx("h2",{children:r.nombre}),v.jsxs("p",{children:["Entrenador: ",r.entrenador.nombre," — ",((d=r.jugadores)==null?void 0:d.length)||0," jugadores"]})]}),y&&v.jsxs("div",{className:"card",children:[v.jsx("h3",{style:{marginBottom:"16px"},children:"Jugadores del equipo"}),(c=r.jugadores)==null?void 0:c.map(f=>v.jsx("div",{className:"jugador-row",children:v.jsxs("div",{className:"jugador-info",children:[v.jsx("div",{className:"jugador-avatar",children:f.nombre.charAt(0).toUpperCase()}),v.jsxs("div",{children:[v.jsx("div",{style:{fontWeight:"600",fontSize:"0.95rem"},children:f.nombre}),v.jsx("div",{style:{color:"var(--texto-suave)",fontSize:"0.8rem"},children:f.email})]})]})},f.id)),(!r.jugadores||r.jugadores.length===0)&&v.jsx("p",{style:{color:"var(--texto-suave)",fontSize:"0.9rem",marginBottom:"12px"},children:"No hay jugadores todavia"}),v.jsxs("form",{onSubmit:w,style:{display:"flex",gap:"8px",marginTop:"16px"},children:[v.jsx("input",{type:"email",placeholder:"Email del jugador",value:u,onChange:f=>s(f.target.value),required:!0,style:{flex:1,padding:"10px 14px",border:"2px solid var(--borde)",borderRadius:"10px",fontSize:"0.9rem",fontFamily:"inherit"}}),v.jsx("button",{type:"submit",className:"btn btn-outline",children:"Anadir"})]})]}),v.jsxs("div",{className:"flex-between",style:{marginTop:"28px"},children:[v.jsx("h3",{style:{fontSize:"1.2rem",fontWeight:"700"},children:"Convocatorias"}),y&&v.jsx("button",{className:"btn btn-primary",onClick:()=>m(!p),children:p?"Cancelar":"+ Nueva convocatoria"})]}),p&&v.jsxs("form",{onSubmit:x,className:"card",children:[v.jsxs("div",{className:"form-group",children:[v.jsx("label",{children:"Titulo"}),v.jsx("input",{value:a.titulo,onChange:f=>h({...a,titulo:f.target.value}),placeholder:"Ej: Partido vs Alzira",required:!0})]}),v.jsxs("div",{className:"form-group",children:[v.jsx("label",{children:"Descripcion"}),v.jsx("textarea",{value:a.descripcion,onChange:f=>h({...a,descripcion:f.target.value}),rows:"3",placeholder:"Detalles de la convocatoria"})]}),v.jsxs("div",{style:{display:"grid",gridTemplateColumns:"1fr 1fr",gap:"12px"},children:[v.jsxs("div",{className:"form-group",children:[v.jsx("label",{children:"Fecha y hora"}),v.jsx("input",{type:"datetime-local",value:a.fecha,onChange:f=>h({...a,fecha:f.target.value}),required:!0})]}),v.jsxs("div",{className:"form-group",children:[v.jsx("label",{children:"Lugar"}),v.jsx("input",{value:a.lugar,onChange:f=>h({...a,lugar:f.target.value}),placeholder:"Ej: Campo Municipal"})]})]}),v.jsx("button",{type:"submit",className:"btn btn-primary",children:"Crear convocatoria"})]}),i.map(f=>v.jsx("div",{className:"card card-clickable",onClick:()=>t("/convocatoria/"+f.id),children:v.jsxs("div",{style:{display:"flex",justifyContent:"space-between",alignItems:"center"},children:[v.jsxs("div",{children:[v.jsx("h3",{children:f.titulo}),v.jsxs("p",{children:[f.lugar," — ",new Date(f.fecha).toLocaleString("es-ES")]})]}),v.jsx("span",{style:{color:"var(--primary)",fontSize:"1.2rem"},children:"›"})]})},f.id)),i.length===0&&v.jsxs("div",{className:"empty-state",children:[v.jsx("div",{className:"empty-icon",children:"📅"}),v.jsx("p",{children:"No hay convocatorias todavia"})]})]}):v.jsx("div",{className:"container",children:v.jsx("p",{children:"Cargando..."})})}function Xh(){const{id:e}=Yc(),t=xn(),[n,r]=S.useState([]);S.useEffect(()=>{_s(e).then(r)},[e]);async function l(a){await Wh(e,a),_s(e).then(r)}const i=n.find(a=>a.jugador.id===(t==null?void 0:t.id)),o=n.filter(a=>a.estado==="CONFIRMADO").length,u=n.filter(a=>a.estado==="RECHAZADO").length,s=n.filter(a=>a.estado==="PENDIENTE").length;return v.jsxs("div",{className:"container",children:[v.jsxs("div",{className:"page-header",children:[v.jsx("h2",{children:"Asistencia"}),v.jsxs("p",{children:[n.length," jugadores convocados"]})]}),v.jsxs("div",{className:"stat-cards",children:[v.jsxs("div",{className:"stat-card",children:[v.jsx("div",{className:"stat-number",style:{color:"var(--accent)"},children:o}),v.jsx("p",{children:"Confirmados"})]}),v.jsxs("div",{className:"stat-card",children:[v.jsx("div",{className:"stat-number",style:{color:"var(--rojo)"},children:u}),v.jsx("p",{children:"Rechazados"})]}),v.jsxs("div",{className:"stat-card",children:[v.jsx("div",{className:"stat-number",style:{color:"var(--amarillo)"},children:s}),v.jsx("p",{children:"Pendientes"})]})]}),i&&v.jsxs("div",{className:"card",children:[v.jsx("h3",{style:{marginBottom:"12px"},children:"Tu respuesta"}),v.jsxs("p",{style:{marginBottom:"16px"},children:["Estado actual: ",v.jsx("span",{className:"badge badge-"+i.estado.toLowerCase(),children:i.estado})]}),v.jsxs("div",{style:{display:"flex",gap:"10px"},children:[v.jsx("button",{className:"btn btn-accent",onClick:()=>l("CONFIRMADO"),children:"Confirmar asistencia"}),v.jsx("button",{className:"btn btn-danger",onClick:()=>l("RECHAZADO"),children:"No puedo ir"})]})]}),v.jsx("h3",{style:{marginTop:"28px",marginBottom:"16px",fontSize:"1.1rem",fontWeight:"700"},children:"Lista de jugadores"}),n.map(a=>v.jsx("div",{className:"card",style:{padding:"16px 24px"},children:v.jsxs("div",{className:"jugador-row",style:{borderBottom:"none",padding:0},children:[v.jsxs("div",{className:"jugador-info",children:[v.jsx("div",{className:"jugador-avatar",children:a.jugador.nombre.charAt(0).toUpperCase()}),v.jsx("span",{style:{fontWeight:"600"},children:a.jugador.nombre})]}),v.jsx("span",{className:"badge badge-"+a.estado.toLowerCase(),children:a.estado})]})},a.id))]})}function ci({children:e}){return xn()?e:v.jsx(kh,{to:"/login"})}function Gh(){return v.jsxs(v.Fragment,{children:[xn()&&v.jsx(Vh,{}),v.jsxs(Ch,{children:[v.jsx(Wt,{path:"/login",element:v.jsx(Qh,{})}),v.jsx(Wt,{path:"/register",element:v.jsx(Kh,{})}),v.jsx(Wt,{path:"/",element:v.jsx(ci,{children:v.jsx(Yh,{})})}),v.jsx(Wt,{path:"/equipo/:id",element:v.jsx(ci,{children:v.jsx(Jh,{})})}),v.jsx(Wt,{path:"/convocatoria/:id",element:v.jsx(ci,{children:v.jsx(Xh,{})})})]})]})}fi.createRoot(document.getElementById("root")).render(v.jsx(Th,{children:v.jsx(Gh,{})}));

diff --git a/backend/src/main/resources/static/assets/index-CnS56cyd.css b/backend/src/main/resources/static/assets/index-CnS56cyd.css
@@ -1,0 +1,1 @@
+@import"https://fonts.googleapis.com/css2?family=Inter:wght@400;500;600;700;800&display=swap";*{box-sizing:border-box;margin:0;padding:0}:root{--primary: #6C5CE7;--primary-dark: #5A4BD1;--primary-light: #A29BFE;--accent: #00CEC9;--accent-dark: #00B5B0;--oscuro: #0F0E17;--oscuro2: #1A1A2E;--fondo: #F8F9FE;--texto: #1A1A2E;--texto-suave: #6B7280;--borde: #E5E7EB;--rojo: #FF6B6B;--rojo-bg: #FFF0F0;--verde: #00CEC9;--verde-bg: #E8FAF9;--amarillo: #FBBF24;--amarillo-bg: #FEF9E7;--blanco: #FFFFFF;--sombra: 0 4px 6px -1px rgba(0, 0, 0, .07), 0 2px 4px -2px rgba(0, 0, 0, .05);--sombra-lg: 0 10px 25px -3px rgba(0, 0, 0, .1), 0 4px 6px -4px rgba(0, 0, 0, .1);--sombra-hover: 0 20px 40px -4px rgba(108, 92, 231, .2);--radio: 12px;--transicion: all .2s ease}body{font-family:Inter,system-ui,-apple-system,sans-serif;background:var(--fondo);color:var(--texto);line-height:1.6}.navbar{background:linear-gradient(135deg,var(--oscuro) 0%,var(--oscuro2) 100%);color:#fff;padding:0 32px;display:flex;justify-content:space-between;align-items:center;height:64px;box-shadow:0 4px 20px #00000026;position:sticky;top:0;z-index:100}.navbar h1{font-size:1.3rem;font-weight:800;letter-spacing:-.5px;background:linear-gradient(135deg,var(--primary-light),var(--accent));-webkit-background-clip:text;-webkit-text-fill-color:transparent}.navbar-right{display:flex;align-items:center;gap:16px}.navbar-user{font-size:.85rem;color:#ffffffb3}.navbar-user strong{color:#fff;font-weight:600}.navbar button{background:#ffffff14;border:1px solid rgba(255,255,255,.15);color:#fff;padding:8px 18px;border-radius:8px;cursor:pointer;font-size:.85rem;font-weight:500;transition:var(--transicion)}.navbar button:hover{background:#ffffff26;border-color:#ffffff4d}.container{max-width:960px;margin:32px auto;padding:0 20px}.page-header{margin-bottom:28px}.page-header h2{font-size:1.8rem;font-weight:800;letter-spacing:-.5px;color:var(--texto)}.page-header p{color:var(--texto-suave);margin-top:4px}.card{background:var(--blanco);border:1px solid var(--borde);border-radius:var(--radio);padding:24px;margin-bottom:16px;box-shadow:var(--sombra);transition:var(--transicion)}.card-clickable{cursor:pointer}.card-clickable:hover{transform:translateY(-2px);box-shadow:var(--sombra-hover);border-color:var(--primary-light)}.card h3{margin-bottom:6px;font-weight:700;font-size:1.1rem}.card p{color:var(--texto-suave);font-size:.9rem}.card-icon{width:44px;height:44px;border-radius:10px;display:flex;align-items:center;justify-content:center;font-size:1.3rem;margin-bottom:14px}.card-icon-purple{background:#f0edff}.card-icon-teal{background:#e8faf9}.card-icon-orange{background:#fff3e6}.btn{display:inline-flex;align-items:center;justify-content:center;gap:6px;padding:10px 22px;border:none;border-radius:10px;font-size:.9rem;font-weight:600;cursor:pointer;text-decoration:none;transition:var(--transicion);font-family:inherit}.btn-primary{background:linear-gradient(135deg,var(--primary),var(--primary-dark));color:#fff;box-shadow:0 4px 12px #6c5ce74d}.btn-primary:hover{transform:translateY(-1px);box-shadow:0 6px 20px #6c5ce766}.btn-accent{background:linear-gradient(135deg,var(--accent),var(--accent-dark));color:#fff;box-shadow:0 4px 12px #00cec94d}.btn-danger{background:linear-gradient(135deg,var(--rojo),#ee5a5a);color:#fff;box-shadow:0 4px 12px #ff6b6b4d}.btn-danger:hover{transform:translateY(-1px);box-shadow:0 6px 20px #ff6b6b66}.btn-outline{background:var(--blanco);border:2px solid var(--borde);color:var(--texto)}.btn-outline:hover{border-color:var(--primary);color:var(--primary);background:#f8f7ff}.form-group{margin-bottom:18px}.form-group label{display:block;margin-bottom:6px;font-weight:600;font-size:.85rem;color:var(--texto)}.form-group input,.form-group select,.form-group textarea{width:100%;padding:12px 14px;border:2px solid var(--borde);border-radius:10px;font-size:.95rem;font-family:inherit;transition:var(--transicion);background:var(--blanco)}.form-group input:focus,.form-group select:focus,.form-group textarea:focus{outline:none;border-color:var(--primary);box-shadow:0 0 0 3px #6c5ce71a}.error{color:var(--rojo);font-size:.85rem;margin-bottom:14px;padding:10px 14px;background:var(--rojo-bg);border-radius:8px;font-weight:500}.badge{display:inline-flex;align-items:center;padding:5px 12px;border-radius:20px;font-size:.75rem;font-weight:700;letter-spacing:.3px;text-transform:uppercase}.badge-pendiente{background:var(--amarillo-bg);color:#92400e}.badge-confirmado{background:var(--verde-bg);color:#065f46}.badge-rechazado{background:var(--rojo-bg);color:#991b1b}.grid{display:grid;grid-template-columns:repeat(auto-fill,minmax(280px,1fr));gap:20px}.flex-between{display:flex;justify-content:space-between;align-items:center;margin-bottom:20px}.login-bg{min-height:100vh;display:flex;align-items:center;justify-content:center;background:linear-gradient(135deg,var(--oscuro) 0%,var(--oscuro2) 50%,#16213E 100%);padding:20px;position:relative;overflow:hidden}.bouncing-icon{position:absolute;left:0;top:0;pointer-events:none;will-change:transform;z-index:0;opacity:.55;filter:drop-shadow(0 0 8px rgba(162,155,254,.5))}.login-card{background:var(--blanco);border-radius:16px;padding:40px;width:100%;max-width:420px;position:relative;z-index:1;box-shadow:0 25px 60px #0000004d}.login-card h2{font-size:1.6rem;font-weight:800;margin-bottom:8px;letter-spacing:-.5px}.login-card .login-subtitle{color:var(--texto-suave);font-size:.9rem;margin-bottom:28px}.login-logo{font-size:2rem;font-weight:800;margin-bottom:32px;text-align:center;background:linear-gradient(135deg,var(--primary-light),var(--accent));-webkit-background-clip:text;-webkit-text-fill-color:transparent}.stat-cards{display:flex;gap:16px;margin:20px 0}.stat-card{flex:1;background:var(--blanco);border-radius:var(--radio);padding:20px;text-align:center;box-shadow:var(--sombra);border:1px solid var(--borde)}.stat-card .stat-number{font-size:2.2rem;font-weight:800;line-height:1;margin-bottom:4px}.stat-card p{color:var(--texto-suave);font-size:.8rem;font-weight:600;text-transform:uppercase;letter-spacing:.5px}.empty-state{text-align:center;padding:48px 20px;color:var(--texto-suave)}.empty-state .empty-icon{font-size:3rem;margin-bottom:12px;opacity:.5}.jugador-row{display:flex;justify-content:space-between;align-items:center;padding:12px 0;border-bottom:1px solid var(--borde)}.jugador-row:last-child{border-bottom:none}.jugador-info{display:flex;align-items:center;gap:12px}.jugador-avatar{width:36px;height:36px;border-radius:50%;background:linear-gradient(135deg,var(--primary-light),var(--accent));display:flex;align-items:center;justify-content:center;color:#fff;font-weight:700;font-size:.85rem}

diff --git a/frontend/src/pages/Login.jsx b/frontend/src/pages/Login.jsx
@@ -2,7 +2,7 @@ import { useState, useLayoutEffect, useRef } from 'react'
 import { useNavigate, Link } from 'react-router-dom'
 import { login, setToken, setUser } from '../api'
 
-const BALL_IMAGES = ['/balls/soccer.png', '/balls/basketball.png', '/balls/baseball.png', '/balls/tennis.png', '/balls/volleyball.png', '/balls/football.png', '/balls/hockey.png']
+const BALL_IMAGES = ['/balls/bowling.png', '/balls/basketball.png', '/balls/billiard.png', '/balls/tennis.png', '/balls/badminton.png', '/balls/football.png', '/balls/hockey.png']
 
 const BALLS = [
   { size: 120, speed: 2.5, rot: 1.2 },

diff --git a/backend/src/main/resources/static/index.html b/backend/src/main/resources/static/index.html
@@ -4,8 +4,8 @@
     <meta charset="UTF-8" />
     <meta name="viewport" content="width=device-width, initial-scale=1.0" />
     <title>ClubPlan</title>
-    <script type="module" crossorigin src="/assets/index-DDRv2PJQ.js"></script>
-    <link rel="stylesheet" crossorigin href="/assets/index-BFEcbR4Z.css">
+    <script type="module" crossorigin src="/assets/index-DQglgOp7.js"></script>
+    <link rel="stylesheet" crossorigin href="/assets/index-CnS56cyd.css">
   </head>
   <body>
     <div id="root"></div>

diff --git a/frontend/src/index.css b/frontend/src/index.css
@@ -295,9 +295,8 @@ body {
   pointer-events: none;
   will-change: transform;
   z-index: 0;
-  opacity: 0.5;
-  border-radius: 50%;
-  overflow: hidden;
+  opacity: 0.55;
+  filter: drop-shadow(0 0 8px rgba(162, 155, 254, 0.5));
 }
 
 .login-card {
